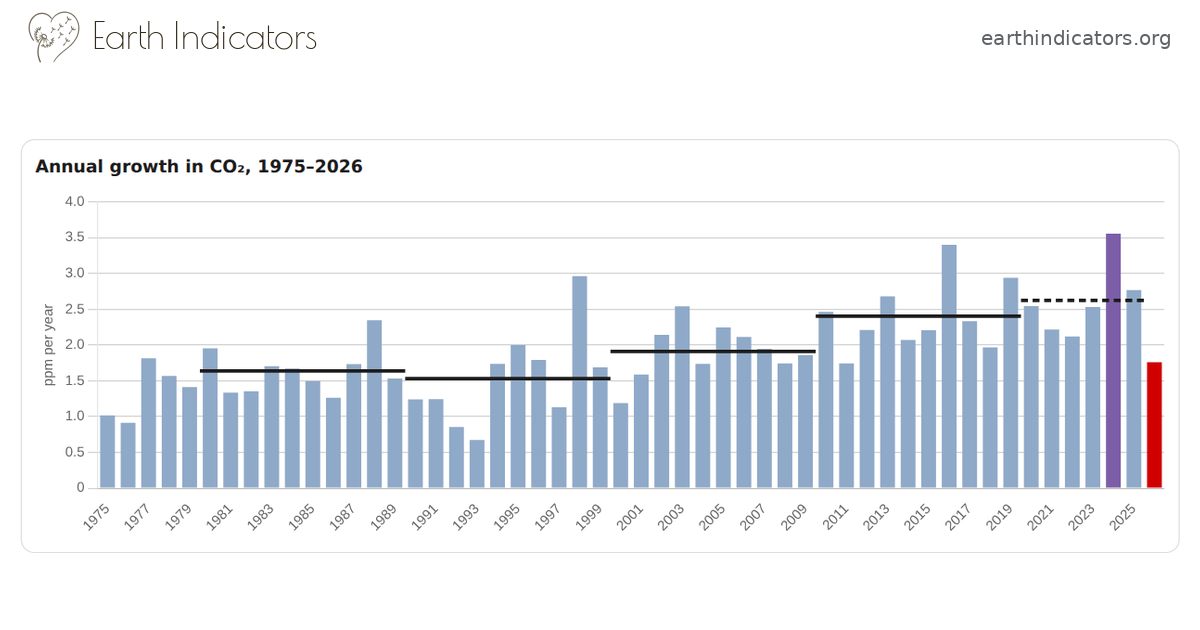
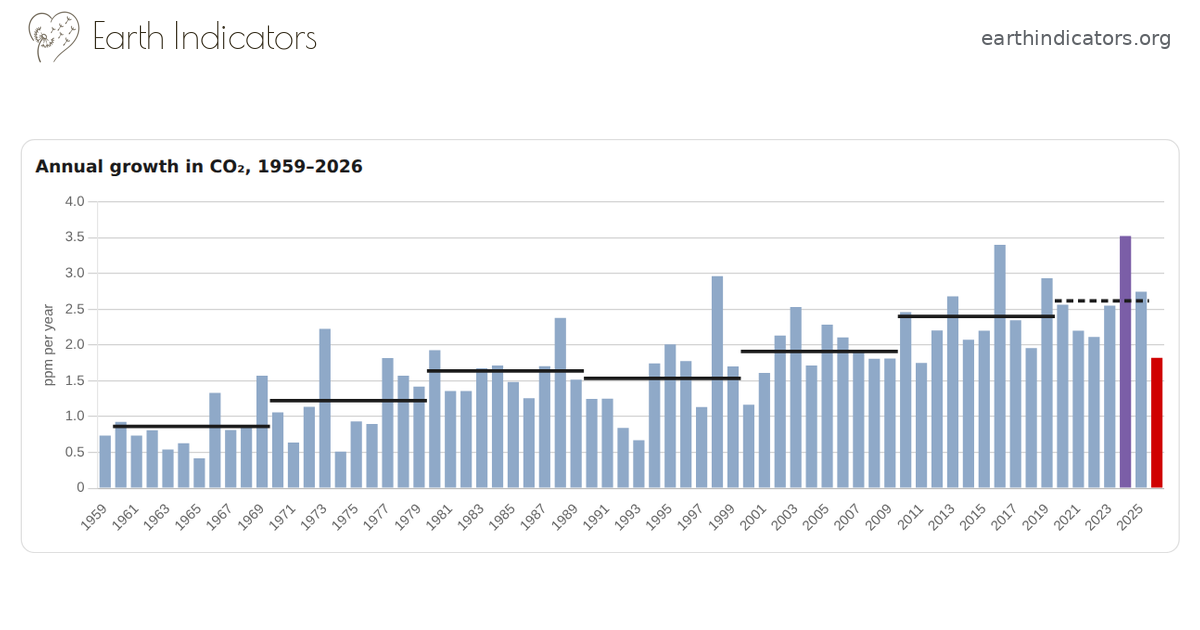
Update chart share links

Changed region(s): [[0.0617, 0.3619, 0.9867, 0.8444], [0.2158, 0.2413, 0.2775, 0.2714]]

diff --git a/s/co2-c3.html b/s/co2-c3.html
@@ -1,21 +1,21 @@
 <!DOCTYPE html>
 <html lang="en"><head><meta charset="utf-8">
 <meta name="viewport" content="width=device-width, initial-scale=1">
-<title>Annual growth in CO₂, 1975–2026 | Earth Indicators</title>
+<title>Annual growth in CO₂, 1959–2026 | Earth Indicators</title>
 <meta name="robots" content="noindex">
 <meta property="og:type" content="article">
 <meta property="og:site_name" content="Earth Indicators">
-<meta property="og:title" content="Annual growth in CO₂, 1975–2026">
+<meta property="og:title" content="Annual growth in CO₂, 1959–2026">
 <meta property="og:description" content="Atmospheric CO₂, daily from Mauna Loa, and how fast it is rising. NOAA Global Monitoring Laboratory data.">
 <meta property="og:url" content="https://earthindicators.org/s/co2-c3.html">
 <meta property="og:image" content="https://earthindicators.org/og/s/co2-c3.png">
 <meta property="og:image:width" content="1200">
 <meta property="og:image:height" content="630">
-<meta property="og:image:alt" content="Chart: Annual growth in CO₂, 1975–2026">
+<meta property="og:image:alt" content="Chart: Annual growth in CO₂, 1959–2026">
 <meta name="twitter:card" content="summary_large_image">
 <meta name="description" content="Atmospheric CO₂, daily from Mauna Loa, and how fast it is rising. NOAA Global Monitoring Laboratory data.">
 <script>location.replace('../co2.html#ch-c3')</script>
 <style>body{font:17px/1.5 system-ui,sans-serif;max-width:640px;margin:40px auto;padding:0 16px}</style>
 </head><body>
-<p><a href="../co2.html#ch-c3">Annual growth in CO₂, 1975–2026: see the chart on Earth Indicators</a></p>
+<p><a href="../co2.html#ch-c3">Annual growth in CO₂, 1959–2026: see the chart on Earth Indicators</a></p>
 </body></html>
